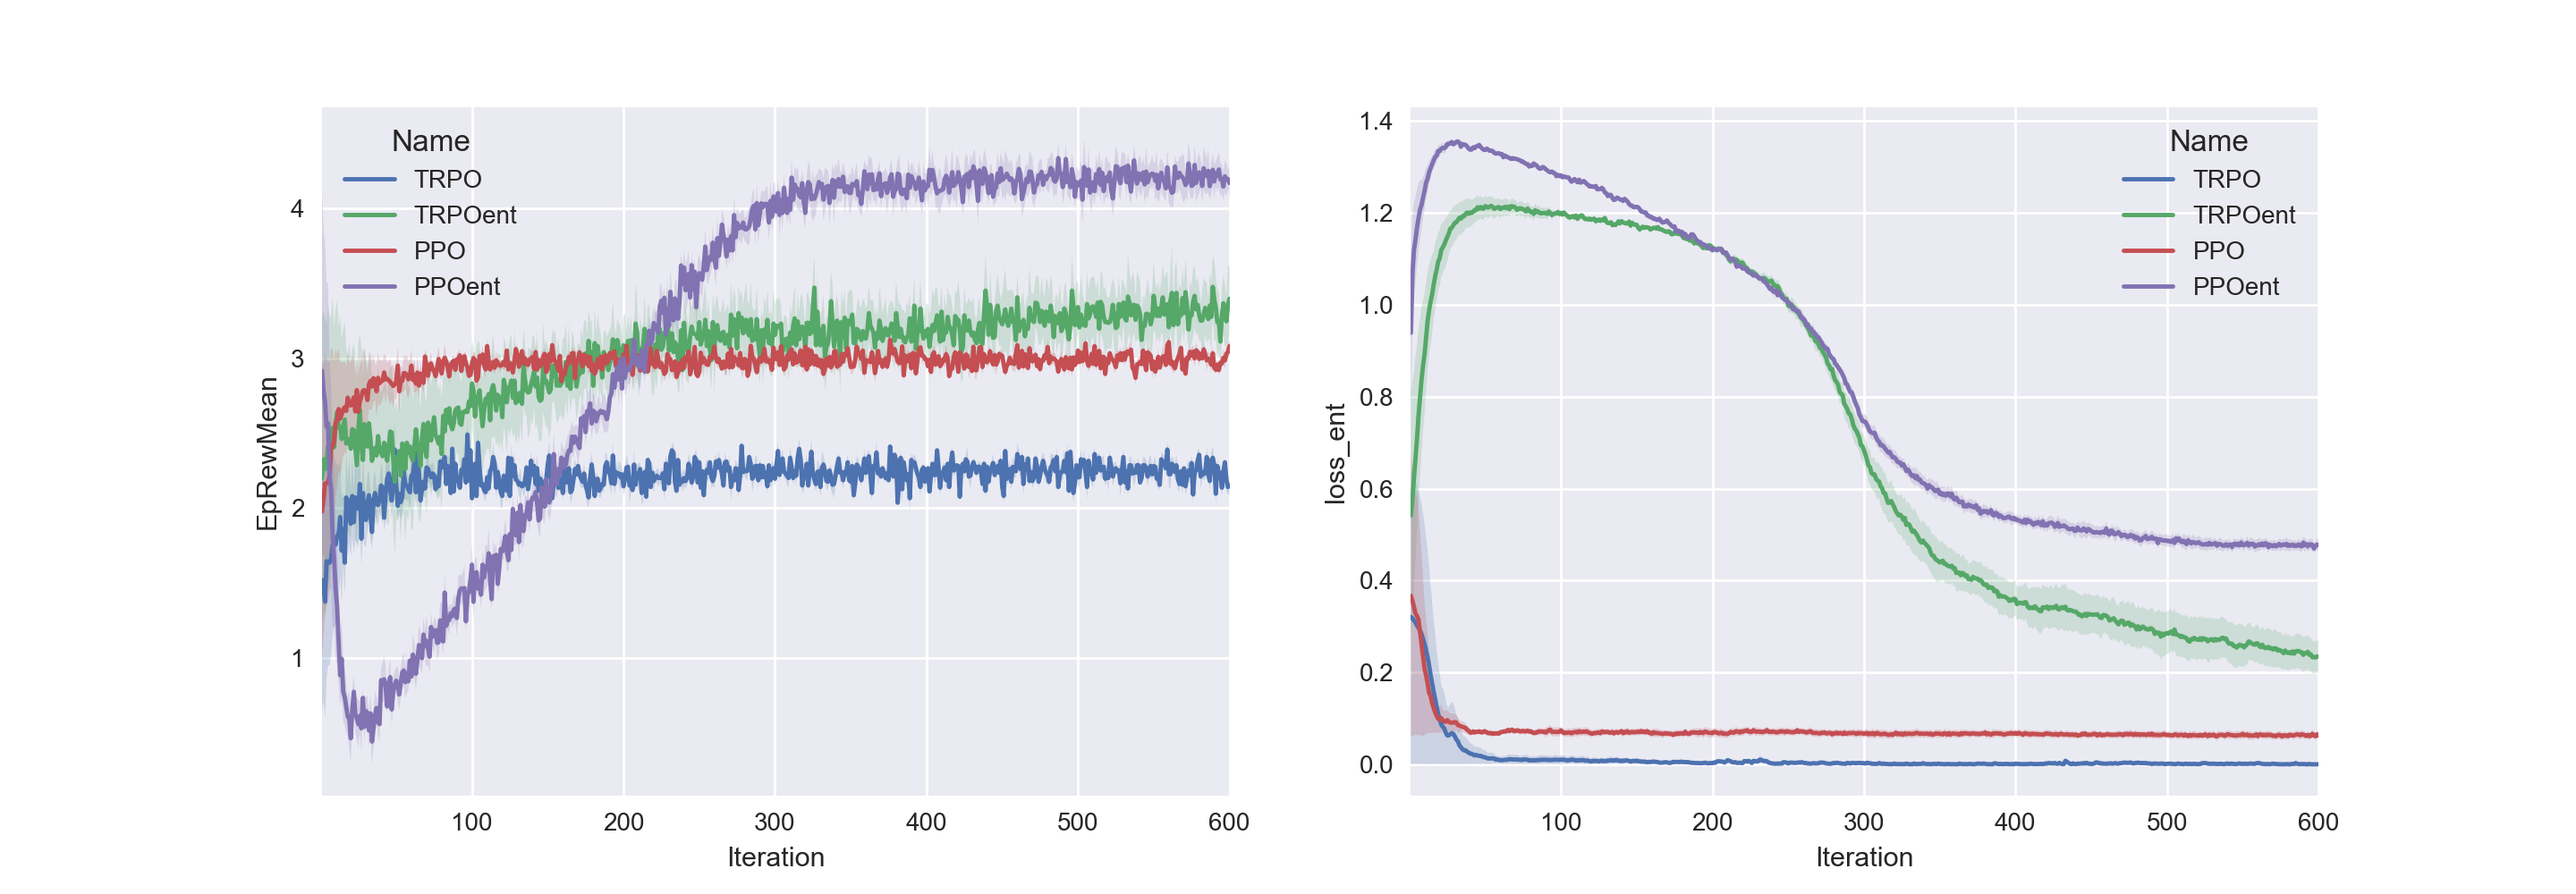
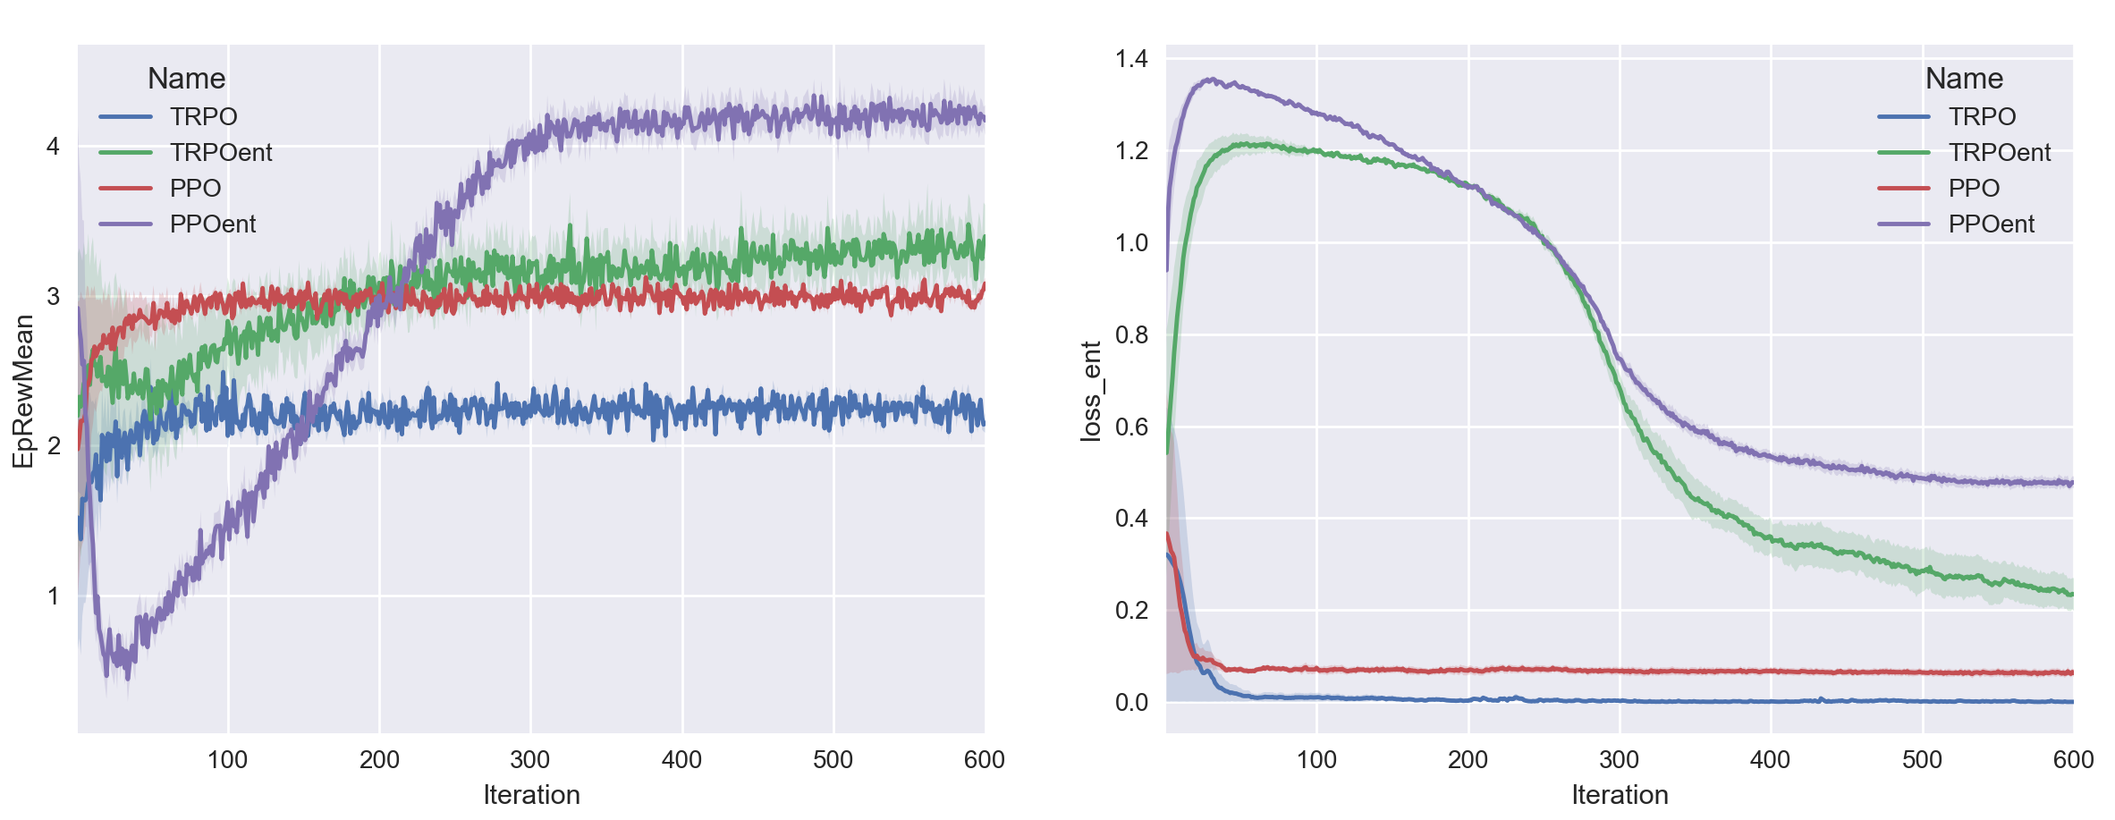
changes

diff --git a/baselines/ppo1/pporocksample.py b/baselines/ppo1/pporocksample.py
@@ -16,16 +16,17 @@ def traj_segment_generator(pi, env, horizon, stochastic, gamma):
 
     cur_ep_ret = 0 # return in current episode
     cur_ep_len = 0 # len of current episode
-    cur_ep_drwd = 0
+    lastdrwd = 0
     ep_rets = [] # returns of completed episodes in this segment
     ep_lens = [] # lengths of ...
-    ep_drwd = []
+    ep_drwds = []
 
     # Initialize history arrays
     obs = np.array([ob for _ in range(horizon)])
     rews = np.zeros(horizon, 'float32')
     vpreds = np.zeros(horizon, 'float32')
     news = np.zeros(horizon, 'int32')
+    # drwds = []
     acs = np.array([ac for _ in range(horizon)])
     prevacs = acs.copy()
 
@@ -38,12 +39,12 @@ def traj_segment_generator(pi, env, horizon, stochastic, gamma):
         if t > 0 and t % horizon == 0:
             yield {"ob" : obs, "rew" : rews, "vpred" : vpreds, "new" : news,
                     "ac" : acs, "prevac" : prevacs, "nextvpred": vpred * (1 - new),
-                    "ep_rets" : ep_rets, "ep_lens" : ep_lens, 'ep_drwd': ep_drwd}
+                    "ep_rets" : ep_rets, "ep_lens" : ep_lens, "ep_drwds":ep_drwds}
             # Be careful!!! if you change the downstream algorithm to aggregate
             # several of these batches, then be sure to do a deepcopy
             ep_rets = []
             ep_lens = []
-            ep_drwd = []
+            ep_drwds = []
         i = t % horizon
         obs[i] = ob
         vpreds[i] = vpred
@@ -54,16 +55,21 @@ def traj_segment_generator(pi, env, horizon, stochastic, gamma):
         ob, rew, new, _ = env.step(ac)
         rews[i] = rew
 
+        lastdrwd = rew + gamma * lastdrwd
+        # drwds.append(lastdrwd)
+
         cur_ep_ret += rew
         cur_ep_len += 1
-        cur_ep_drwd = rew + gamma * cur_ep_drwd
+
+
         if new:
             ep_rets.append(cur_ep_ret)
             ep_lens.append(cur_ep_len)
-            ep_drwd.append(cur_ep_drwd)
+            ep_drwds.append(lastdrwd)
             cur_ep_ret = 0
             cur_ep_len = 0
-            cur_ep_drwd = 0
+            lastdrwd = 0
+            # drwds = []
             ob = env.reset()
         t += 1
 
@@ -84,10 +90,6 @@ def add_vtarg_and_adv(seg, gamma, lam):
     seg["tdlamret"] = seg["adv"] + seg["vpred"]
 
 
-
-
-
-
 def learn(env, i_trial, policy_fn, *,
         timesteps_per_actorbatch, # timesteps per actor per update
         clip_param, entp, # clipping parameter epsilon, entropy coeff
@@ -97,7 +99,8 @@ def learn(env, i_trial, policy_fn, *,
         callback=None, # you can do anything in the callback, since it takes locals(), globals()
         adam_epsilon=1e-5,
         schedule='constant',# annealing for stepsize parameters (epsilon and adam)
-        useentr=False
+        useentr=False,
+        retrace=True
         ):
     # Setup losses and stuff
     # ----------------------------------------
@@ -185,7 +188,6 @@ def learn(env, i_trial, policy_fn, *,
         seg = seg_gen.__next__()
         add_vtarg_and_adv(seg, gamma, lam)
 
-
         # ob, ac, atarg, ret, td1ret = map(np.concatenate, (obs, acs, atargs, rets, td1rets))
         ob, ac, atarg, tdlamret = seg["ob"], seg["ac"], seg["adv"], seg["tdlamret"]
         vpredbefore = seg["vpred"] # predicted value function before udpate
@@ -193,8 +195,9 @@ def learn(env, i_trial, policy_fn, *,
         if hasattr(pi, "ob_rms"): pi.ob_rms.update(ob) # update running mean/std for policy
 
         assign_old_eq_new() # set old parameter values to new parameter values
-        # prob_r = compute_ratio(ob, ac)
-        # atarg = atarg * np.minimum(1., prob_r)
+        if retrace is True:
+            prob_r = compute_ratio(ob, ac)
+            atarg = atarg * np.minimum(1., prob_r)
 
         atarg = (atarg - atarg.mean()) / atarg.std() # standardized advantage function estimate
         d = Dataset(dict(ob=ob, ac=ac, atarg=atarg, vtarg=tdlamret), shuffle=not pi.recurrent)
@@ -219,7 +222,7 @@ def learn(env, i_trial, policy_fn, *,
         for (lossval, name) in zipsame(meanlosses, loss_names):
             logger.record_tabular("loss_"+name, lossval)
         logger.record_tabular("ev_tdlam_before", explained_variance(vpredbefore, tdlamret))
-        lrlocal = (seg["ep_lens"], seg["ep_rets"], seg["ep_drwd"]) # local values
+        lrlocal = (seg["ep_lens"], seg["ep_rets"], seg["ep_drwds"]) # local values
         listoflrpairs = MPI.COMM_WORLD.allgather(lrlocal) # list of tuples
         lens, rews, drwds = map(flatten_lists, zip(*listoflrpairs))
         lenbuffer.extend(lens)
@@ -237,7 +240,7 @@ def learn(env, i_trial, policy_fn, *,
         logger.record_tabular("TimeElapsed", time.time() - tstart)
         logger.logkv('trial', i_trial)
         logger.logkv("Iteration", iters_so_far)
-        logger.logkv("Name", 'PPOent')
+        logger.logkv("Name", 'PPOfullretrace')
         if MPI.COMM_WORLD.Get_rank()==0:
             logger.dump_tabular()
 

diff --git a/baselines/plot/runningplot.py b/baselines/plot/runningplot.py
@@ -6,16 +6,16 @@ import matplotlib.animation as animation
 import os
 
 sns.set(color_codes=True)
+#
+# path1 ="/home/zhi/Documents/ReinforcementLearning/tmp/RockSample/ppoent-full-04-19-15-27-53/progress.csv"
+# path2 ="/home/zhi/Documents/ReinforcementLearning/tmp/RockSample/ppo-04-12-17-01-47/progress.csv"
+# path3 = '/home/zhi/Documents/ReinforcementLearning/tmp/RockSample/ppoent-04-12-17-52-57/progress.csv'
+# path4 = '/home/zhi/Documents/ReinforcementLearning/tmp/RockSample/trpoent5000-04-12-18-48-43/progress.csv'
 
-path1 ="/home/zhi/Documents/ReinforcementLearning/tmp/RockSample/ppoent-full-04-19-15-27-53/progress.csv"
-path2 ="/home/zhi/Documents/ReinforcementLearning/tmp/RockSample/ppo-04-12-17-01-47/progress.csv"
-path3 = '/home/zhi/Documents/ReinforcementLearning/tmp/RockSample/ppoent-04-12-17-52-57/progress.csv'
-path4 = '/home/zhi/Documents/ReinforcementLearning/tmp/RockSample/trpoent5000-04-12-18-48-43/progress.csv'
-
-# path1 ='/Users/zhirong/Documents/Masterthesis-code/tmp/RockSample/trpo5-5000-04-12-23-25-33/progress.csv'
-# path2 = '/Users/zhirong/Documents/Masterthesis-code/tmp/RockSample/trpoent5-5000-04-12-22-31-23/progress.csv'
-# path3 = '/Users/zhirong/Documents/Masterthesis-code/tmp/RockSample/ppo5-5000-04-13-02-08-29/progress.csv'
-# path4 = '/Users/zhirong/Documents/Masterthesis-code/tmp/RockSample/ppoent5-5000-04-13-02-09-29/progress.csv'
+path1 ='/Users/zhirong/Documents/Masterthesis-code/tmp/RockSample/ppoent-retrace-full-04-22-15-11-08/progress.csv'
+path2 = '/Users/zhirong/Documents/Masterthesis-code/tmp/RockSample/trpoent5-5000-04-12-22-31-23/progress.csv'
+path3 = '/Users/zhirong/Documents/Masterthesis-code/tmp/RockSample/ppo5-5000-04-13-02-08-29/progress.csv'
+path4 = '/Users/zhirong/Documents/Masterthesis-code/tmp/RockSample/ppoent5-5000-04-13-02-09-29/progress.csv'
 
 
 fig, axes = plt.subplots(1, 3, figsize=(18,5))

diff --git a/baselines/ppo1/run_rocksample.py b/baselines/ppo1/run_rocksample.py
@@ -40,7 +40,7 @@ def train(num_timesteps, seed, num_trials=1):
                 timesteps_per_actorbatch=2048,
                 clip_param=0.2, entp=0.6,
                 optim_epochs=10, optim_stepsize=3e-4, optim_batchsize=64,
-                gamma=0.99, lam=0.95, schedule='linear', useentr=False
+                gamma=0.95, lam=0.99, schedule='linear', useentr=True, retrace=True
                             )
         env.close()
 
@@ -54,10 +54,10 @@ def main():
     # args = mujoco_arg_parser().parse_args()
     args = rocksample_arg_parser().parse_args()
     args.seed = 0
-    # log_path = get_dir("/Users/zhirong/Documents/Masterthesis-code/tmp")
-    log_path = get_dir("/home/zhi/Documents/ReinforcementLearning/tmp")
+    log_path = get_dir("/Users/zhirong/Documents/Masterthesis-code/tmp")
+    # log_path = get_dir("/home/zhi/Documents/ReinforcementLearning/tmp")
     ENV_path = get_dir(os.path.join(log_path, args.env))
-    log_dir = os.path.join(ENV_path, datetime.datetime.now().strftime("ppoent-full-%m-%d-%H-%M-%S"))
+    log_dir = os.path.join(ENV_path, datetime.datetime.now().strftime("ppoent-retrace-full-%m-%d-%H-%M-%S"))
     logger.configure(dir=log_dir)
     train(num_timesteps=args.num_timesteps, seed=args.seed)
 

diff --git a/baselines/common/cmd_util.py b/baselines/common/cmd_util.py
@@ -59,10 +59,10 @@ def make_rocksample_env(seed, map_name, observation_type, observation_noise, n_s
      (without seed)
     """
     set_global_seeds(seed)
-    env = normalize(HistoryEnv(RockSampleEnv(map_name=map_name, observation_type=observation_type,
-                   observation_noise=observation_noise), n_steps=n_steps), scale_reward=1)
-    # env = normalize(RockSampleEnv(map_name=map_name, observation_type=observation_type,
-    #                observation_noise=observation_noise), scale_reward=1)
+    # env = normalize(HistoryEnv(RockSampleEnv(map_name=map_name, observation_type=observation_type,
+    #                observation_noise=observation_noise), n_steps=n_steps), scale_reward=1)
+    env = normalize(RockSampleEnv(map_name=map_name, observation_type=observation_type,
+                   observation_noise=observation_noise), scale_reward=1)
     # env.seed(seed)
     env = Monitor(env, logger.get_dir(), allow_early_resets=True)
     return env
